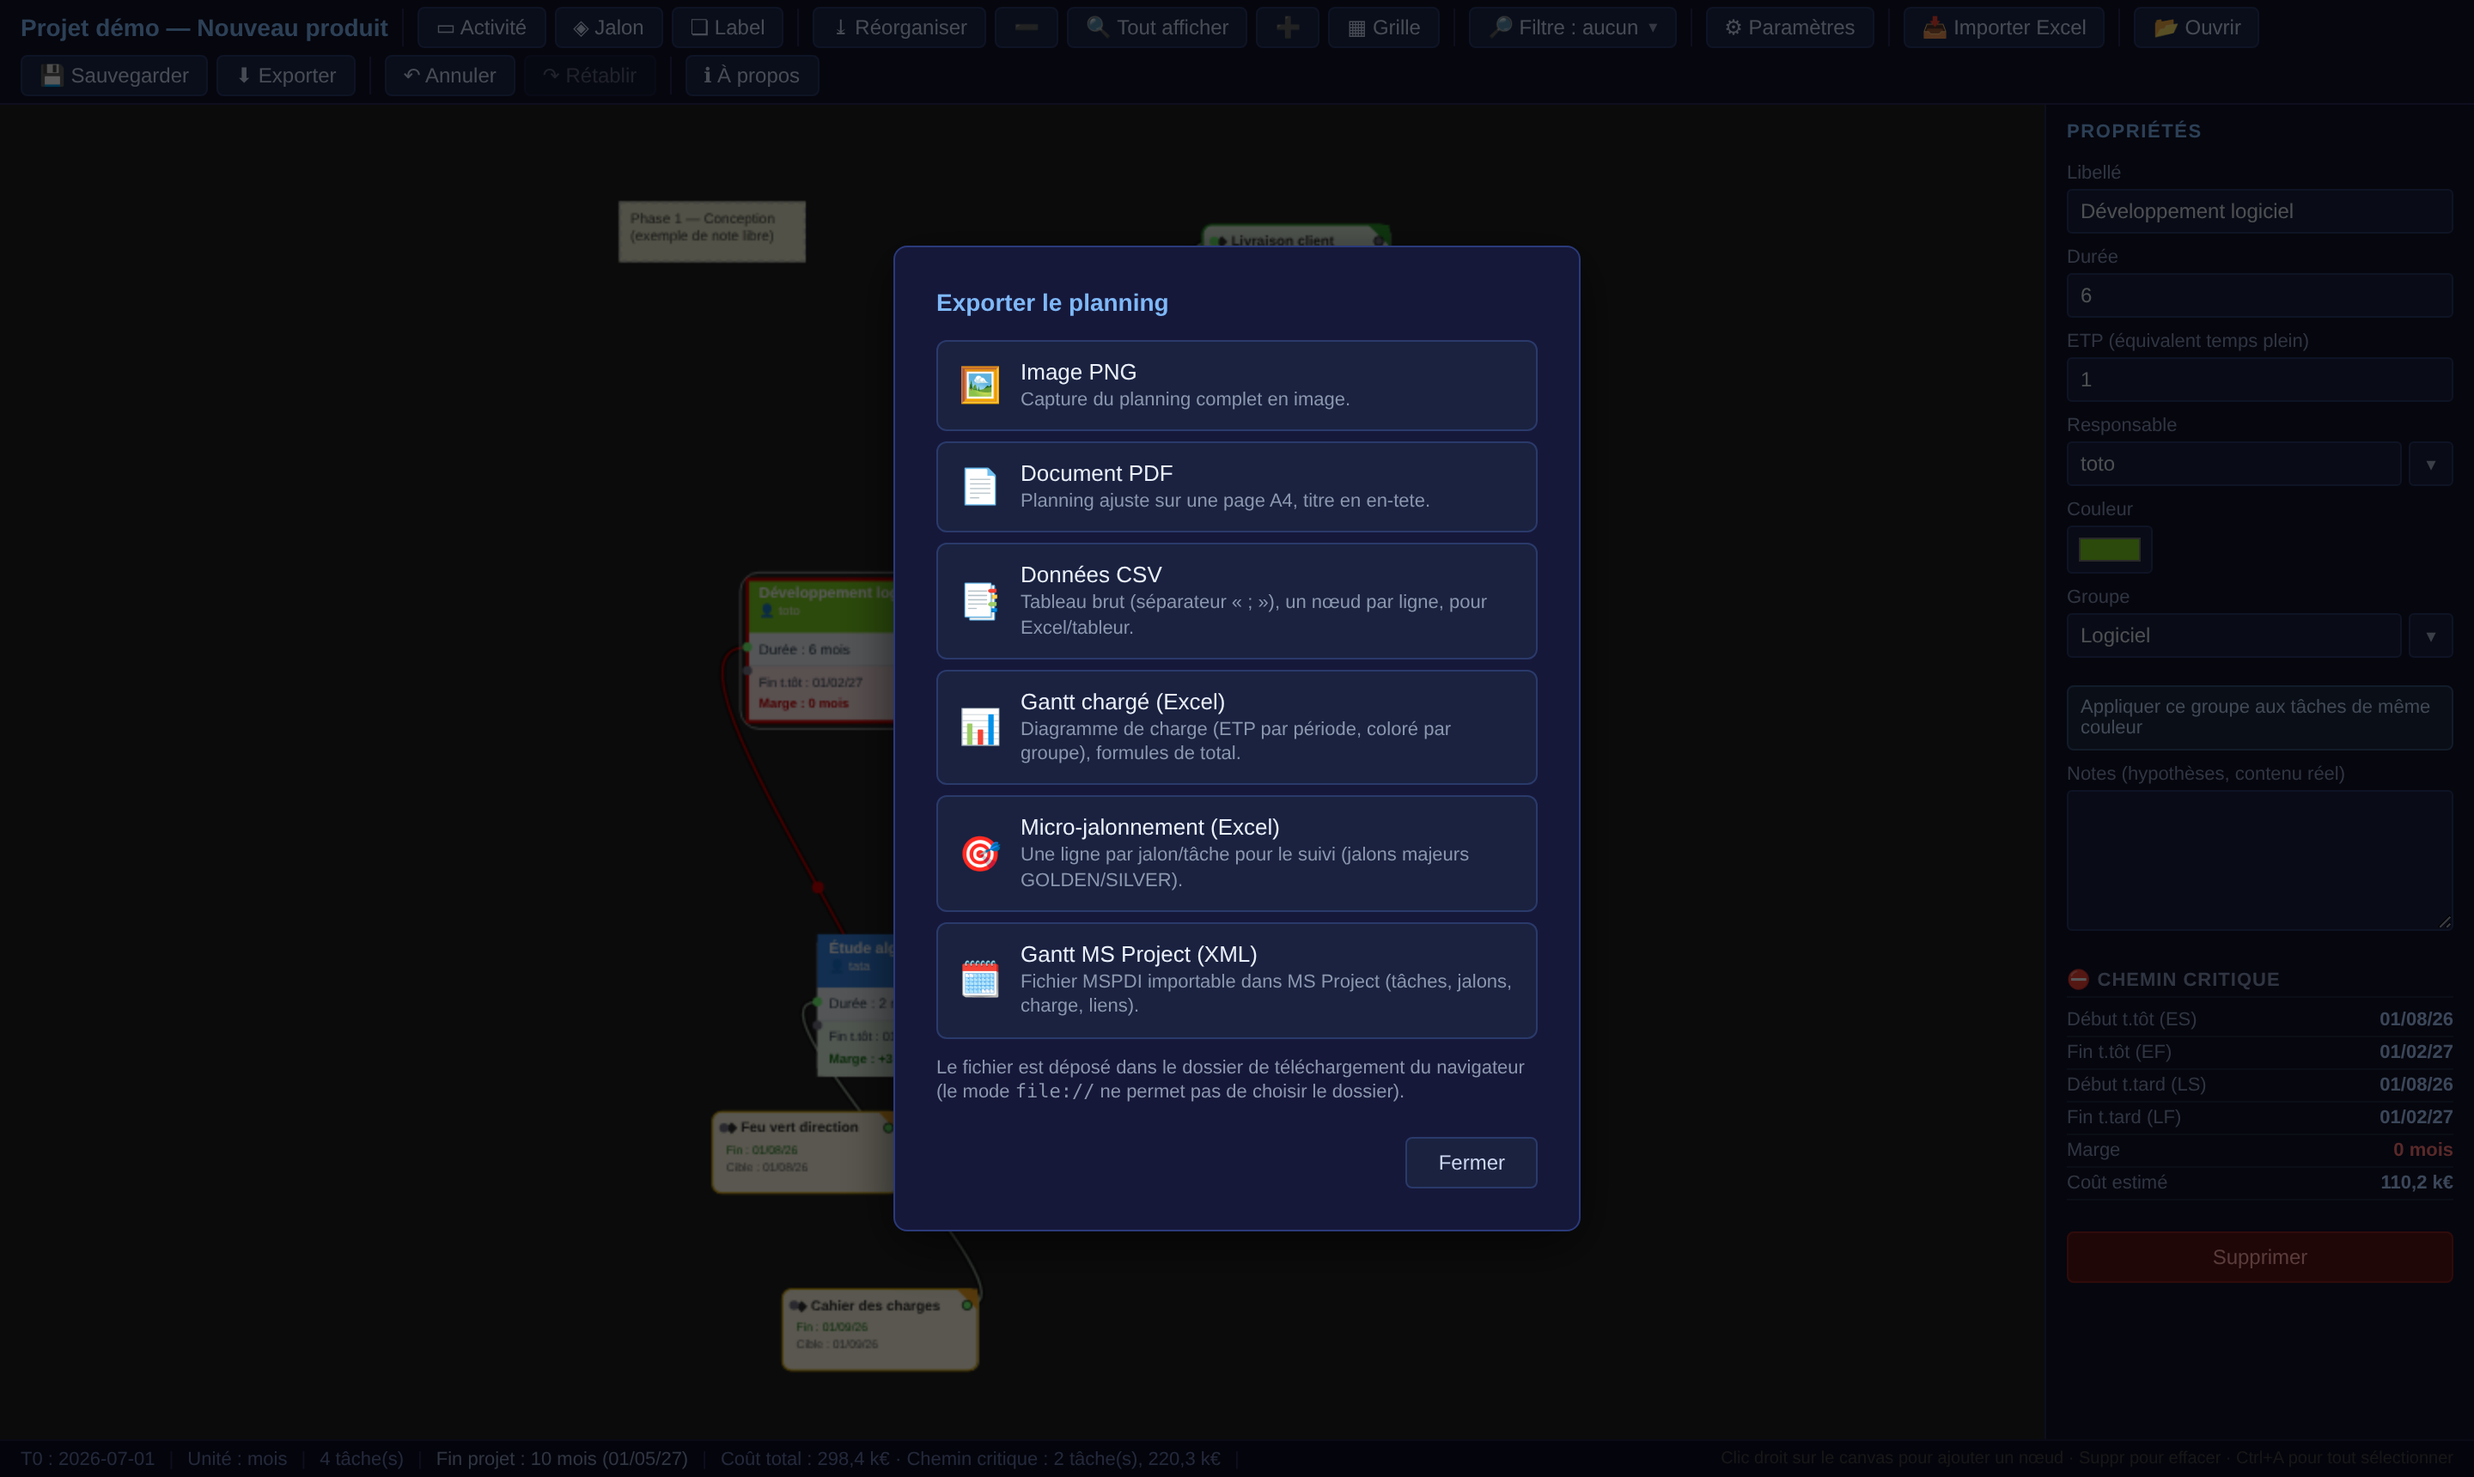
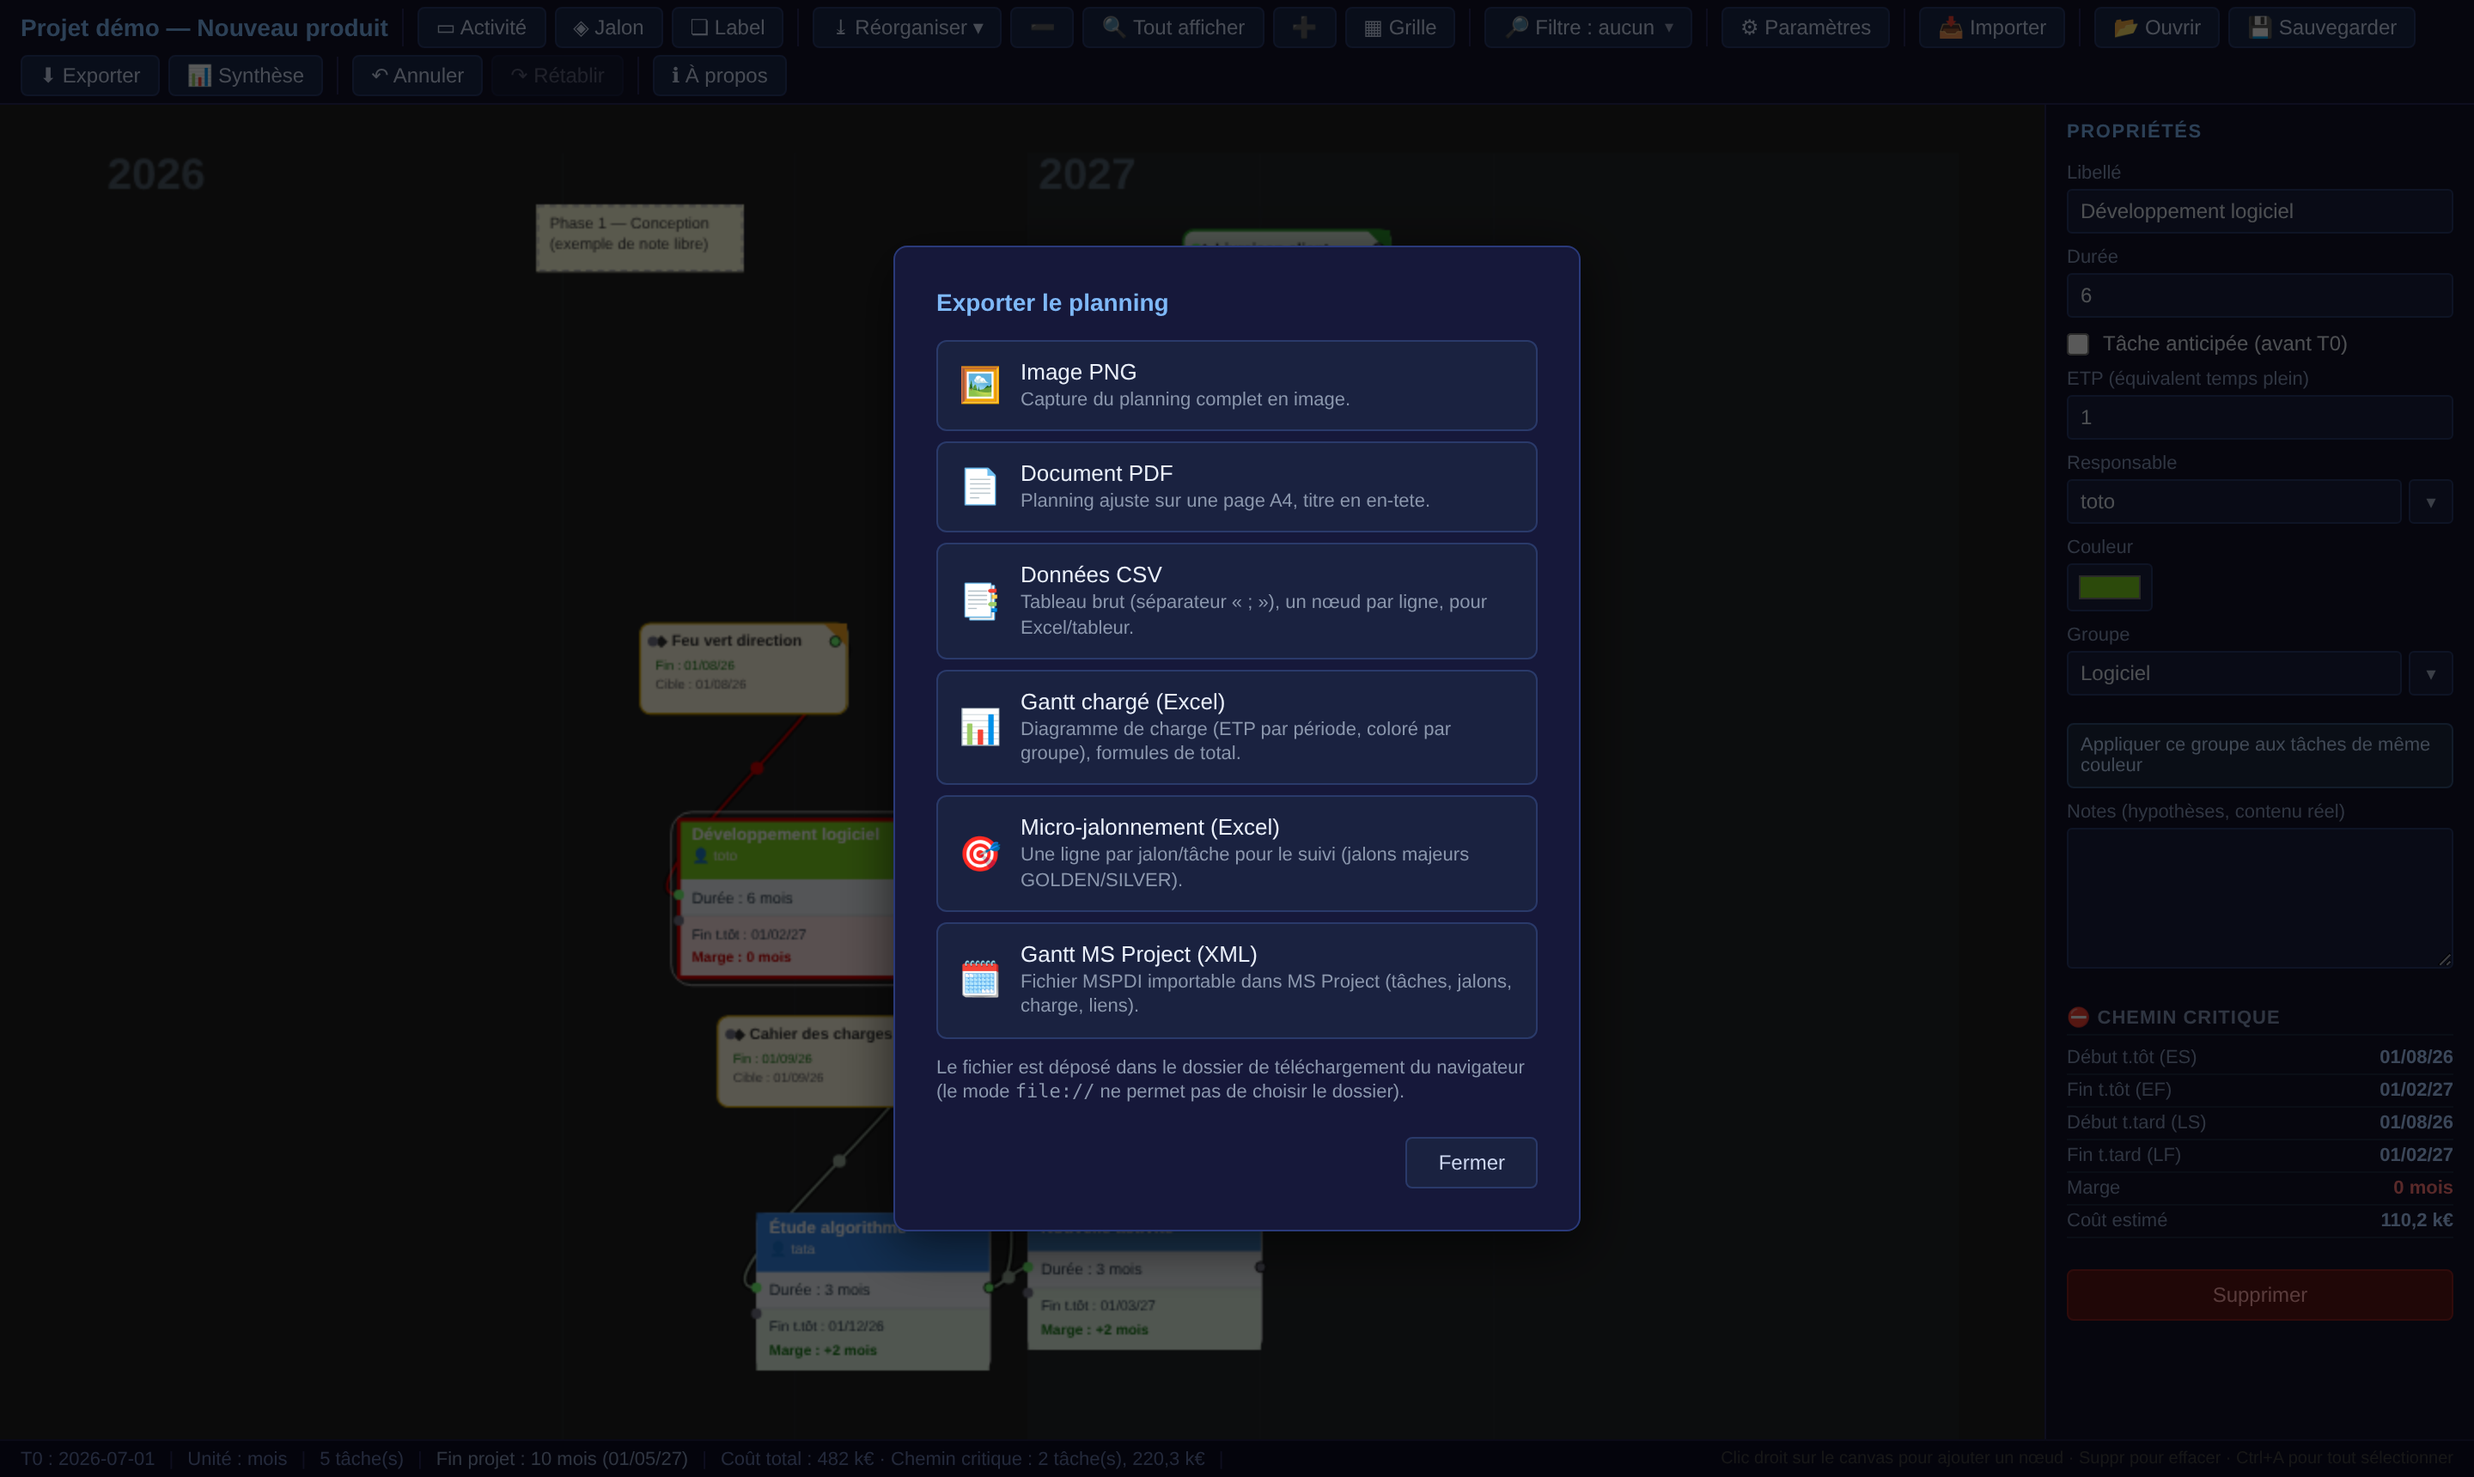
docs: notes de version completees, captures regenerees, historique v0.18.1
NOTES DE VERSION — docs/release-notes.md s'arretait au 08/07 et ignorait HUIT versions
livrees depuis (v0.15.2, v0.15.3, v0.15.4, v0.15.5, v0.16, v0.17, v0.18, v0.18.1). Elles
sont ajoutees dans le style du fichier, orientees utilisateur. Les dates sont reprises des
TAGS GIT et non reconstituees de memoire — l'ordre des tags reservait d'ailleurs une
surprise, v0.15.5 ayant ete posee apres v0.16 dans le tableau d'avancement alors qu'elle
la precede dans l'historique.

CAPTURES — la fixture test_cases/pert_a_exporter.pert ayant ete restauree par
l'utilisateur, doc-shots.js retrouve la main : 10 captures du manuel regenerees sur le
planning de demonstration officiel, dont les deux du dialogue Parametres qui provenaient
d'un contournement. tools/doc-shots-parametres.js est donc supprime, comme annonce.

HISTORIQUE — entree v0.18.1 : le filigrane et son effet de bord (libelle omis sur les
bandes trop etroites), la correction de la date des deux cotes, et surtout le retour de la
fixture. Celle-ci a fait echouer smoke-s9 (« 8 taches, vu 9 ») : la version restauree
compte un nœud de plus que celle contre laquelle le test avait ete ecrit. Les attendus
MSPDI sont desormais DEDUITS de la fixture (une tache par Activite et par Jalon, un lien
par connexion) plutot que codes en dur — test_cases/ etant gitignore, la fixture est un
artefact local recomposable, et un nombre en dur transformait un simple ecart de jeu
[…]

diff --git a/docs/release-notes.md b/docs/release-notes.md
@@ -11,6 +11,57 @@ technique, est dans `CLAUDE.md` et `docs/journal-developpement.md`).
 
 ---
 
+## v0.18.1 — 28/07/2026 · Lisibilité de la trame
+- Le **libellé d'année** de la trame temporelle est **nettement plus grand** : il se lit
+  désormais comme un filigrane, d'un coup d'œil et sur un planning dézoomé.
+- La fenêtre **À propos** n'affiche plus l'heure de génération du bundle, seulement la date.
+
+## v0.18 — 27/07/2026 · Réglage de la trame & Paramètres en onglets
+- **Curseur « Intensité de la trame »** (20 % → 400 %) : le bon contraste dépend de l'écran
+  et du goût, il se règle donc à la main. Une **vignette d'aperçu** montre l'effet dans le
+  dialogue ; le rendu définitif se juge sur votre planning.
+- La fenêtre **Paramètres** est répartie en **trois onglets** — *Projet*, *Affichage*,
+  *Coûts*. Un seul **Valider** enregistre l'ensemble, et le dernier onglet consulté est
+  rouvert la fois suivante.
+
+## v0.17 — 27/07/2026 · Jalons entrants/sortants, trame, aimantation
+- La **synthèse** classe les jalons en **entrants** (ce qui alimente le planning) et
+  **sortants** (ce qu'il produit) au lieu de « tenus / non tenus ». Un jalon intermédiaire
+  figure dans les deux listes ; chaque liste reste chronologique.
+- La **tenue de la cible** passe à la **couleur de la ligne**, avec le **même code que les
+  jalons du plan de travail** : rouge si la cible n'est pas tenue, orange si elle l'est tout
+  juste, vert sinon.
+- **Trame temporelle** optionnelle en fond de plan (Paramètres) : bandes discrètes
+  délimitant les années, les mois ou les semaines selon l'unité du projet.
+- Les **Labels s'aimantent** aux bords des nœuds voisins quand on les relâche.
+
+## v0.16 — 25/07/2026 · Anticipation avant T0
+- Des travaux peuvent être **engagés avant T0** pour gagner de la marge : nouvelle case
+  **« tâche anticipée »** (planifiée au plus tard), et les dates antérieures à T0 sont
+  désormais légales. T0 redevient l'**origine contractuelle**, il n'est plus un plancher.
+- La **date-cible d'un jalon** se saisit en **date** ou en **« T0 + X »**.
+- Un **repère T0** et une **bande hachurée** signalent la zone anticipée ; le **coût
+  anticipé** est ventilé au prorata (barre d'état, panneau et synthèse par groupe).
+
+## v0.15.5 — 24/07/2026 · Jalons sur leur date-cible
+- La réorganisation « axe temps seul » place un jalon **sur sa date-cible** quand il en a une.
+- Les listes de jalons de la synthèse sont triées **chronologiquement**.
+
+## v0.15.4 — 23/07/2026 · Fenêtre de synthèse
+- Nouveau bouton **📊 Synthèse** : tout le planning en une vue — vue d'ensemble, jalons et
+  leur marge, coût et fin au plus tard **par groupe**.
+- **Imprimable en PDF** (bouton *Imprimer / PDF*, puis « Enregistrer au format PDF »).
+
+## v0.15.3 — 16/07/2026 · Manuel utilisateur
+- Manuel mis à jour (évolutions v0.15.2, 8 captures) et correctif de la case « gras » du
+  panneau Label.
+
+## v0.15.2 — 16/07/2026 · Réorganisation, Labels, alignement
+- Deuxième mode de réorganisation, **« axe temps seul »** : les tâches se replacent sur
+  l'axe du temps **sans changer de ligne**.
+- **Mise en forme des Labels** : justification, gras, couleurs de texte et de fond.
+- **Boîte d'alignement** dans le menu contextuel : aligner et répartir une sélection.
+
 ## v0.15.1 — 08/07/2026 · Peaufinage Jalon & Label
 - **Notes libres sur les Jalons** (comme sur les tâches) — dans le panneau, jamais sur le nœud.
 - **Nœud Label** : la taille définie **manuellement est désormais conservée** à l'édition du

diff --git a/docs/historique-sessions.md b/docs/historique-sessions.md
@@ -1168,6 +1168,36 @@ l'utilisateur** (relecture du manuel + retouches appliquées).
 > La roadmap est terminée (S1→Doc). Les évolutions mineures et corrections de bugs
 > demandées ensuite sont consignées ici, du plus récent au plus ancien.
 
+### Lisibilité de la trame + date « À propos » ✅ TERMINÉ (28/07/2026, tag **v0.18.1**)
+Deux retouches demandées après usage de la v0.18, l'intensité de la trame étant jugée bonne.
+
+**Libellé d'année en filigrane** — 11 px se perdaient sur la largeur d'une bande d'un an.
+Nouvelle constante `PERT_TG_LABEL_PX = 34`, en gras. Le libellé est dessiné en coordonnées
+**graphe** : il suit donc le zoom, comme le texte des nœuds. Conséquence assumée : à cette taille,
+un libellé n'entre plus dans les bandes étroites (mois en unité « sem », semaines en unité « j »)
+et est alors **omis** — mieux vaut pas de repère qu'un repère chevauchant. Le test verrouille
+`PERT_TG_LABEL_PX >= 24` : la valeur encode une décision utilisateur, pas un détail de rendu.
+
+**Date de génération sans heure** dans « À propos ». Corrigé **des deux côtés** :
+`scripts/build-bundle.js` n'émet plus que `JJ/MM/AAAA`, et `openAbout()` coupe une heure
+résiduelle — sans quoi un bundle antérieur, encore porteur de `JJ/MM/AAAA HH:MM`, aurait continué
+de l'afficher, deux formats coexistant selon l'ancienneté du fichier ouvert.
+
+**La fixture `test_cases/pert_a_exporter.pert` a été restaurée par l'utilisateur.** Conséquences :
+- `doc-shots.js` retrouve la main → **10 captures du manuel régénérées** et
+  `tools/doc-shots-parametres.js`, contournement écrit à la session précédente, **supprimé** comme
+  prévu ;
+- **la suite smoke passe intégralement pour la première fois : 23 tests, 0 échec** ;
+- **`smoke-s9` a d'abord échoué** (« 8 tâches, vu 9 ») : la fixture restaurée compte un nœud de
+  plus que celle contre laquelle le test avait été écrit. Les attendus MSPDI sont désormais
+  **déduits de la fixture** (une tâche par Activité et par Jalon, un lien par connexion) au lieu
+  d'être codés en dur. `test_cases/` étant gitignoré, la fixture est un artefact local recomposable :
+  un nombre en dur transformait un simple écart de jeu d'essai en échec de test, sans rien dire de
+  la qualité de l'export.
+
+`docs/release-notes.md` complété des **huit versions manquantes** (v0.15.2 → v0.18.1) : il s'était
+arrêté au 08/07. Dates reprises des tags git, pas reconstituées de mémoire.
+
 ### Intensité réglable de la trame + Paramètres en onglets ✅ TERMINÉ (27/07/2026, tag **v0.18**)
 **Retour d'usage sur v0.17 : « la trame n'est pas assez visible »** — et, en creusant, l'utilisateur
 constate que c'est une **question de goût** qu'il aura du mal à spécifier. Plutôt que de deviner une

diff --git a/CLAUDE.md b/CLAUDE.md
@@ -387,6 +387,7 @@ onDrawForeground(ctx) {
 | Fenêtre de synthèse + impression PDF | v0.15.4 | Bouton `📊 Synthèse` → modale (vue d'ensemble, jalons tenus/non tenus + marge, coût/LF par groupe), imprimable en PDF (`src/synthesis.js`) |
 | Anticipation avant T0 + cible en « T0+X » | v0.16 | Offsets négatifs légaux (T0 = origine, plus un plancher) ; case « tâche anticipée » ; cible de jalon en date **ou** T0±X ; repère T0 + coût anticipé au prorata |
 | Date-cible des jalons prise en compte | v0.15.5 | `pertTimeAxisOffset` (cible → sinon ES) : réorg « axe temps seul » place le jalon sur sa cible ; listes de jalons de la synthèse triées chronologiquement |
+| Lisibilité de la trame + date « À propos » | v0.18.1 | Libellé d'année en filigrane (`PERT_TG_LABEL_PX`, suit le zoom) ; date de bundle sans heure, corrigée côté générateur ET côté affichage pour les bundles antérieurs ; fixture `pert_a_exporter.pert` restaurée → suite smoke complète (23/23), attendus MSPDI déduits de la fixture |
 | Intensité réglable de la trame + Paramètres en onglets | v0.18 | Curseur d'intensité (goût/écran : aucune valeur ne fait consensus) avec vignette d'aperçu — le voile du dialogue rendrait un aperçu en direct trompeur ; dialogue réparti en 3 onglets, panneaux masqués et non retirés du DOM |
 | Synthèse entrants/sortants, aimantation Labels, trame temporelle | v0.17 | Jalons classés par topologie (intermédiaire = dans les 2 listes), tenue de cible passée en couleur de ligne (règle des nœuds réutilisée) ; Labels aimantés aux bords voisins au lâcher ; trame calendaire de fond optionnelle (`src/time_grid.js`) |
 
